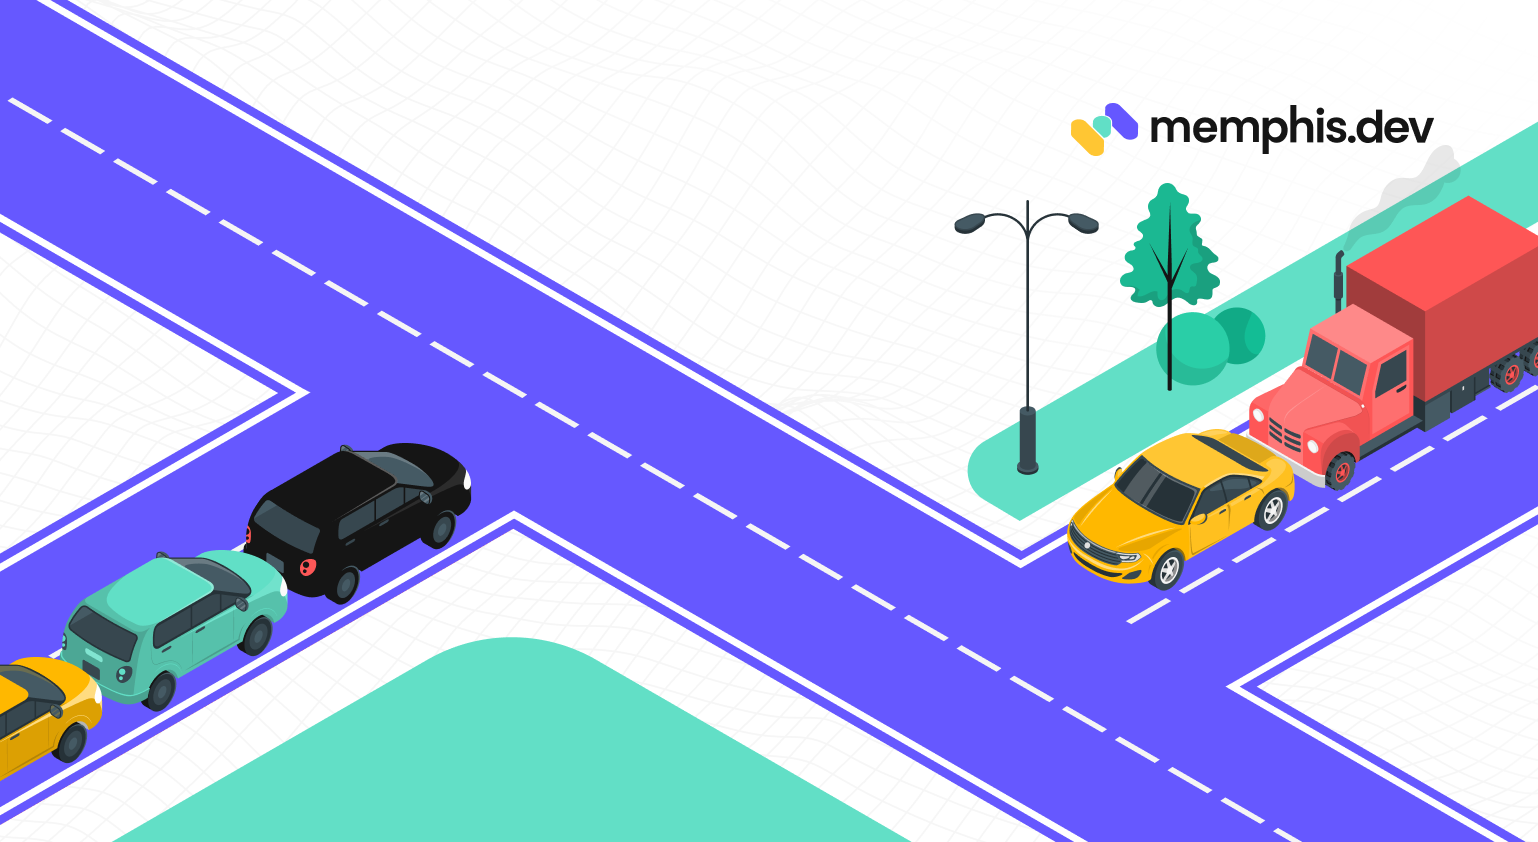
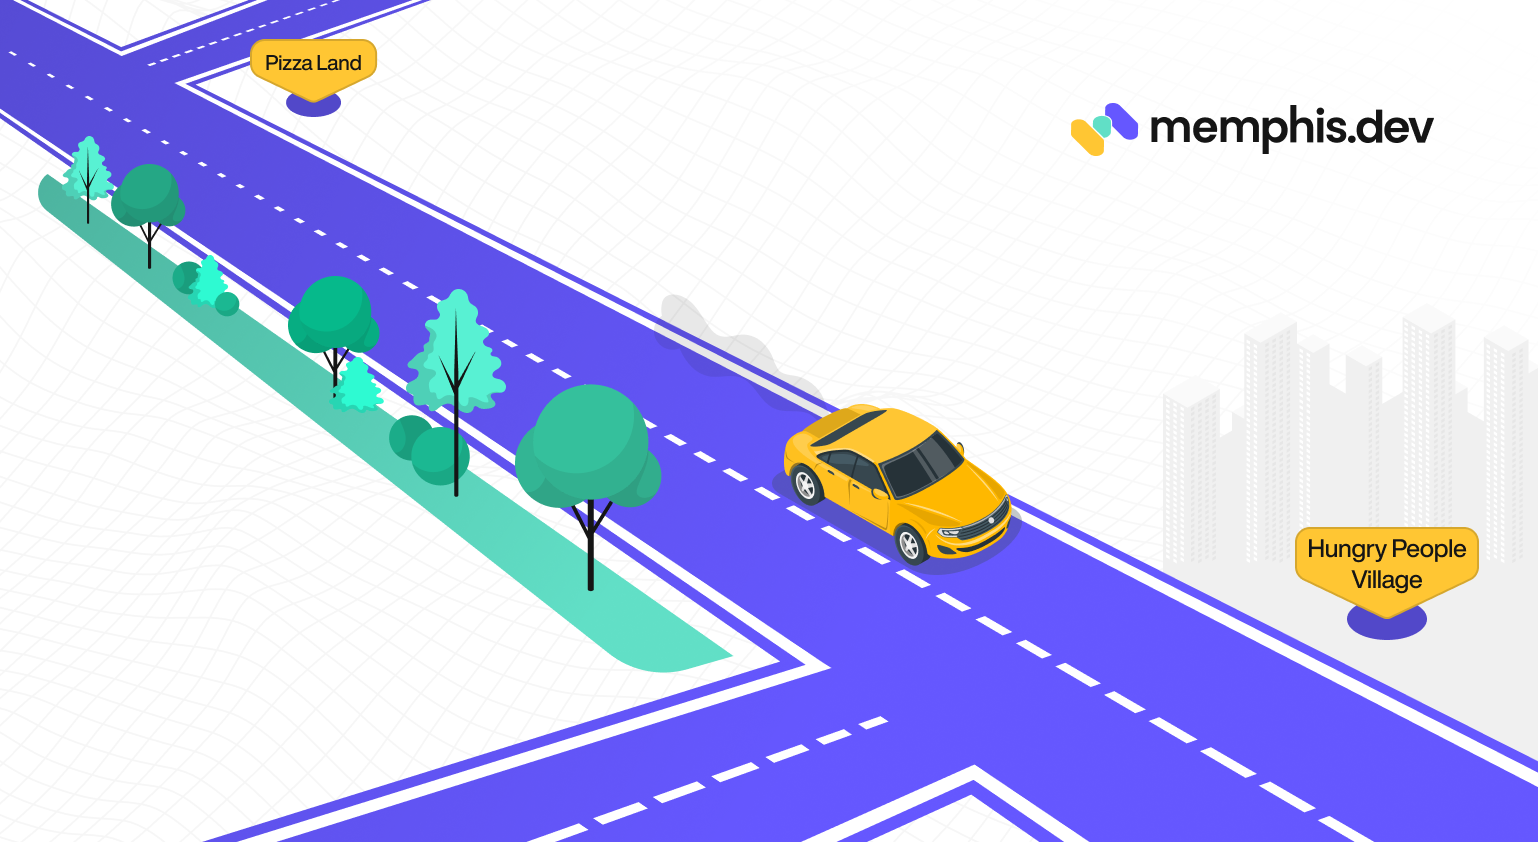
GITBOOK-1429: change request with no subject merged in GitBook

diff --git a/memphis-broker/best-practices/producer-optimization.md b/memphis-broker/best-practices/producer-optimization.md
@@ -17,7 +17,7 @@ By default, the Memphis SDK produces messages synchronously. In other words, the
 
 Imagine that we have a two-lane highway connecting two cities, Pizza Land and Hungry People Village. Pizza delivery drivers use the highway to deliver pizzas from Pizza Land to customers in Hungry People Village. Unfortunately, Pizza Land only has one delivery driver and that driver can only deliver to one customer per trip.
 
-<figure><img src="../../.gitbook/assets/image.png" alt=""><figcaption></figcaption></figure>
+<figure><img src="../../.gitbook/assets/image (1).png" alt=""><figcaption></figcaption></figure>
 
 The orders are added to a queue. Each order sits in the queue until the preceding orders have been delivered. Assume that RTT is the round-trip time it takes for the driver to complete one delivery. The first delivery will take RTT time to deliver. The second delivery will take 2\*RTT time to deliver. The third delivery will take 3\*RTT time to deliver. In other words, the delivery of each order is delayed by its position in the queue. The time to deliver all N orders is N \* RTT.
 
@@ -29,7 +29,7 @@ But what if the distance is greater? Let's assume that it takes 10 ms or 10^-2 s
 
 The Memphis SDKs also support producing messages using non-blocking I/O. In this model, Pizza Land has multiple delivery drivers. Each order sits in the queue until the preceding orders have been delivered, but now multiple orders can be delivered in parallel. If there are 5 delivery drivers, then it takes RTT time to deliver orders 1 through 5. Order 6 will need to wait until the first delivery driver returns, so the delivery time is 2 \* RTT. If there are C delivery drivers, then it takes N \* RTT / C to deliver all N orders.
 
-<figure><img src="../../.gitbook/assets/image (1).png" alt=""><figcaption></figcaption></figure>
+<figure><img src="../../.gitbook/assets/image (1) (1).png" alt=""><figcaption></figcaption></figure>
 
 To enable non-blocking message production in the Python SDK, use the nonblocking=True flag:
 

diff --git a/memphis-functions/use-cases-and-best-practices.md b/memphis-functions/use-cases-and-best-practices.md
@@ -1,0 +1,23 @@
+---
+cover: ../.gitbook/assets/Github.png
+coverY: 0
+---
+
+# Use cases and best practices
+
+## Memphis.dev Well-Architected
+
+Learn, get inspired, and build better pipelines using architectural best practices.
+
+### Use case: Apply and enforce schemas over Kafka topics
+
+<figure><img src="../.gitbook/assets/Card 1 - Apply schemas to Kafka Topics. (1).jpg" alt=""><figcaption></figcaption></figure>
+
+Memphis Functions works great next to Kafka and simplifies the needed code around it.\
+In this use case, Memphis Functions acts as a consumer group to a certain Kafka topic (can be for specific partitions).
+
+* Each received event gets consumed by Functions CG, goes through schema validation defined in [Schemaverse](broken-reference)
+* Validated events continue their journey to the next Topic by Functions. Unvalidated events will be dropped, enter Memphis Dead-letter and the user will be notified through email or Slack
+* Although we did add an extra hop, both the movement and validation take place quickly and efficiently + separating raw, unvalidated data from the validated one in two different topics, creating an extra layer of insurance for the consumers
+
+Use case

diff --git a/SUMMARY.md b/SUMMARY.md
@@ -58,6 +58,8 @@
 
 * [Overview](memphis-functions/overview.md)
 * [Getting started](memphis-functions/getting-started.md)
+* [Use cases and best practices](memphis-functions/use-cases-and-best-practices.md)
+* [Functions library](memphis-functions/functions-library.md)
 
 ## ☁ Memphis cloud
 

diff --git a/memphis-functions/functions-library.md b/memphis-functions/functions-library.md
@@ -1,0 +1,8 @@
+---
+cover: ../.gitbook/assets/Github.png
+coverY: 0
+---
+
+# Functions library
+
+The entire library can be found here: [https://github.com/memphisdev/memphis-dev-functions](https://github.com/memphisdev/memphis-dev-functions)
